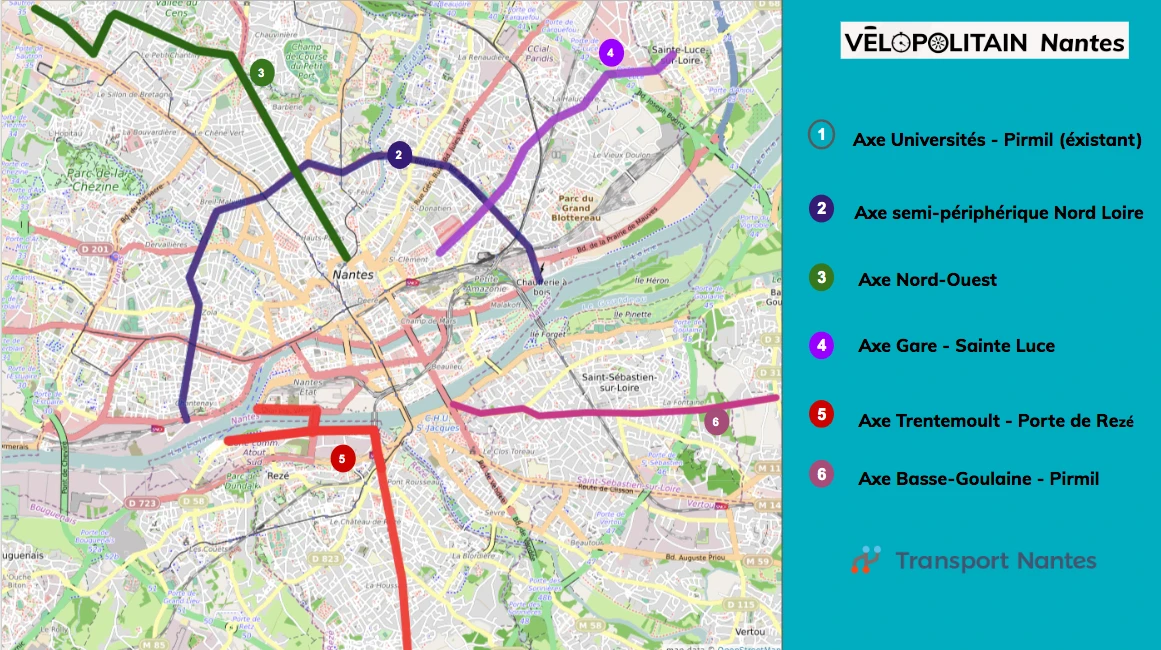
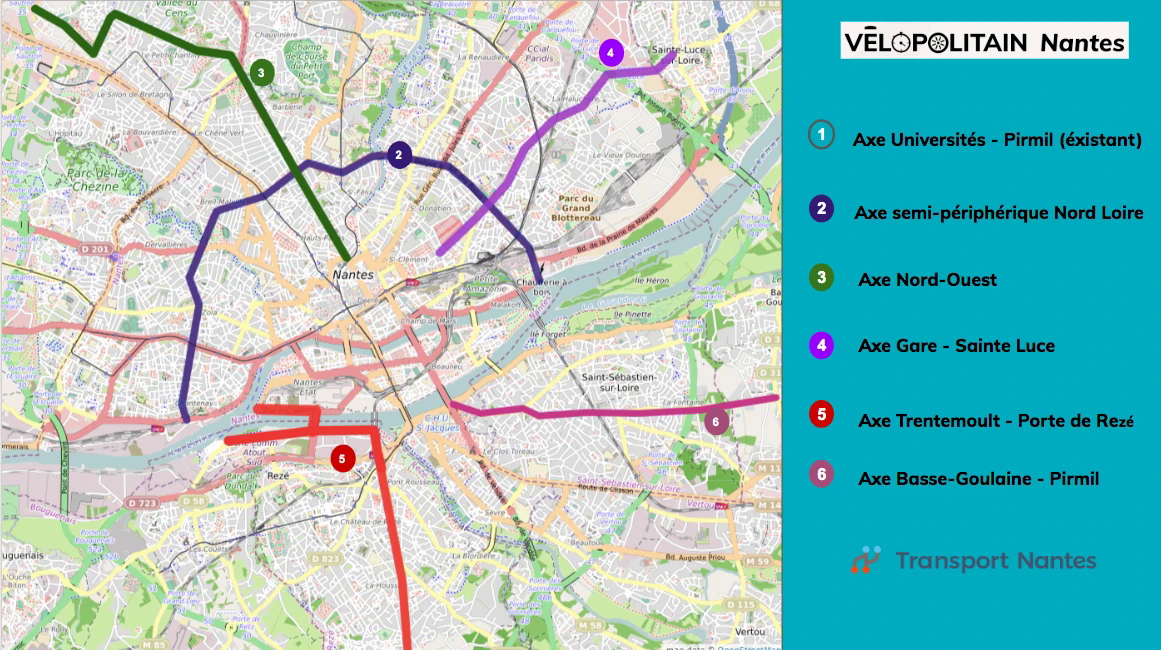
Fix images: safari doesn't do webp
Several png and jpb images were in reality webp, which does not enjoy
universal support, notably with safari.

Changed region(s): [[0.6822, 0.6154, 0.7132, 0.6462], [0.6822, 0.5231, 0.7132, 0.5538], [0.6822, 0.1846, 0.7132, 0.2154]]

diff --git a/app/templates/velopolitain.html b/app/templates/velopolitain.html
@@ -119,7 +119,7 @@
 <div class="row">
     <div class="col-md-2 col-sm-3">
 	<img class="img-responsive" src="{{ url_for('static',
-    filename='velopolitain/v4.jpg', tag=tag, seed=seed) }}" style="width:180px;">
+    filename='velopolitain/v4.png', tag=tag, seed=seed) }}" style="width:180px;">
     </div>
     <div class="col-md-10 col-sm-9">
 	<p>Pour que l'accès au réseau ou son cheminement logique
